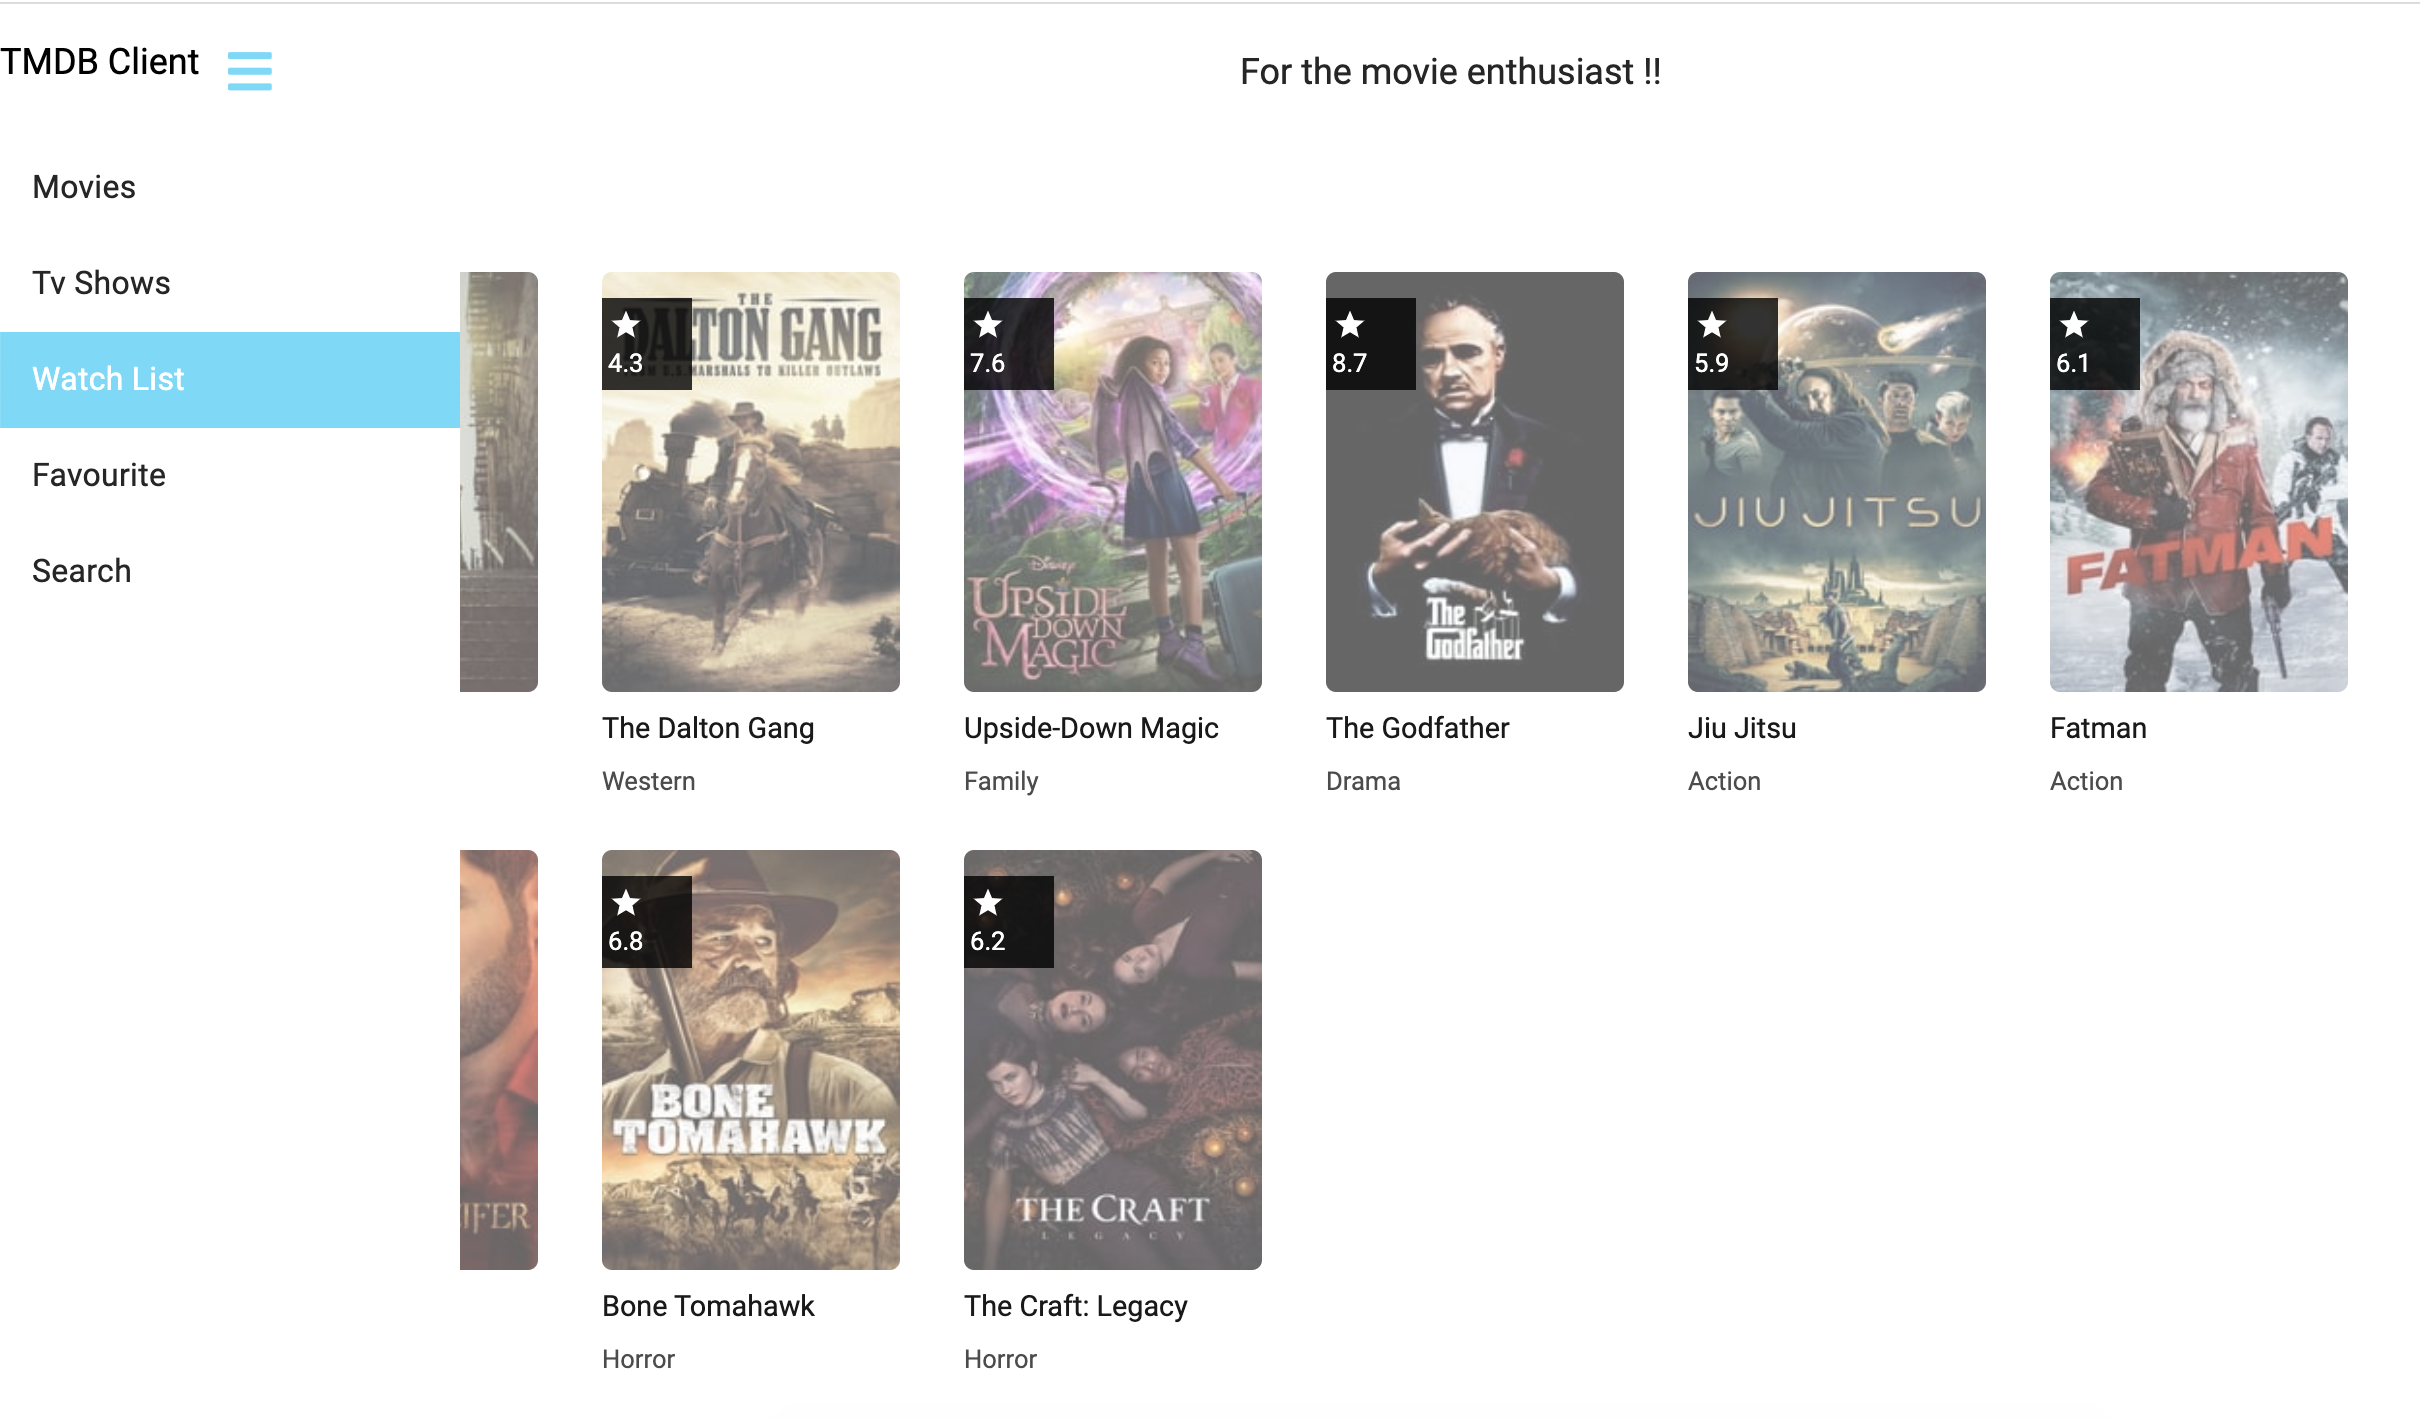
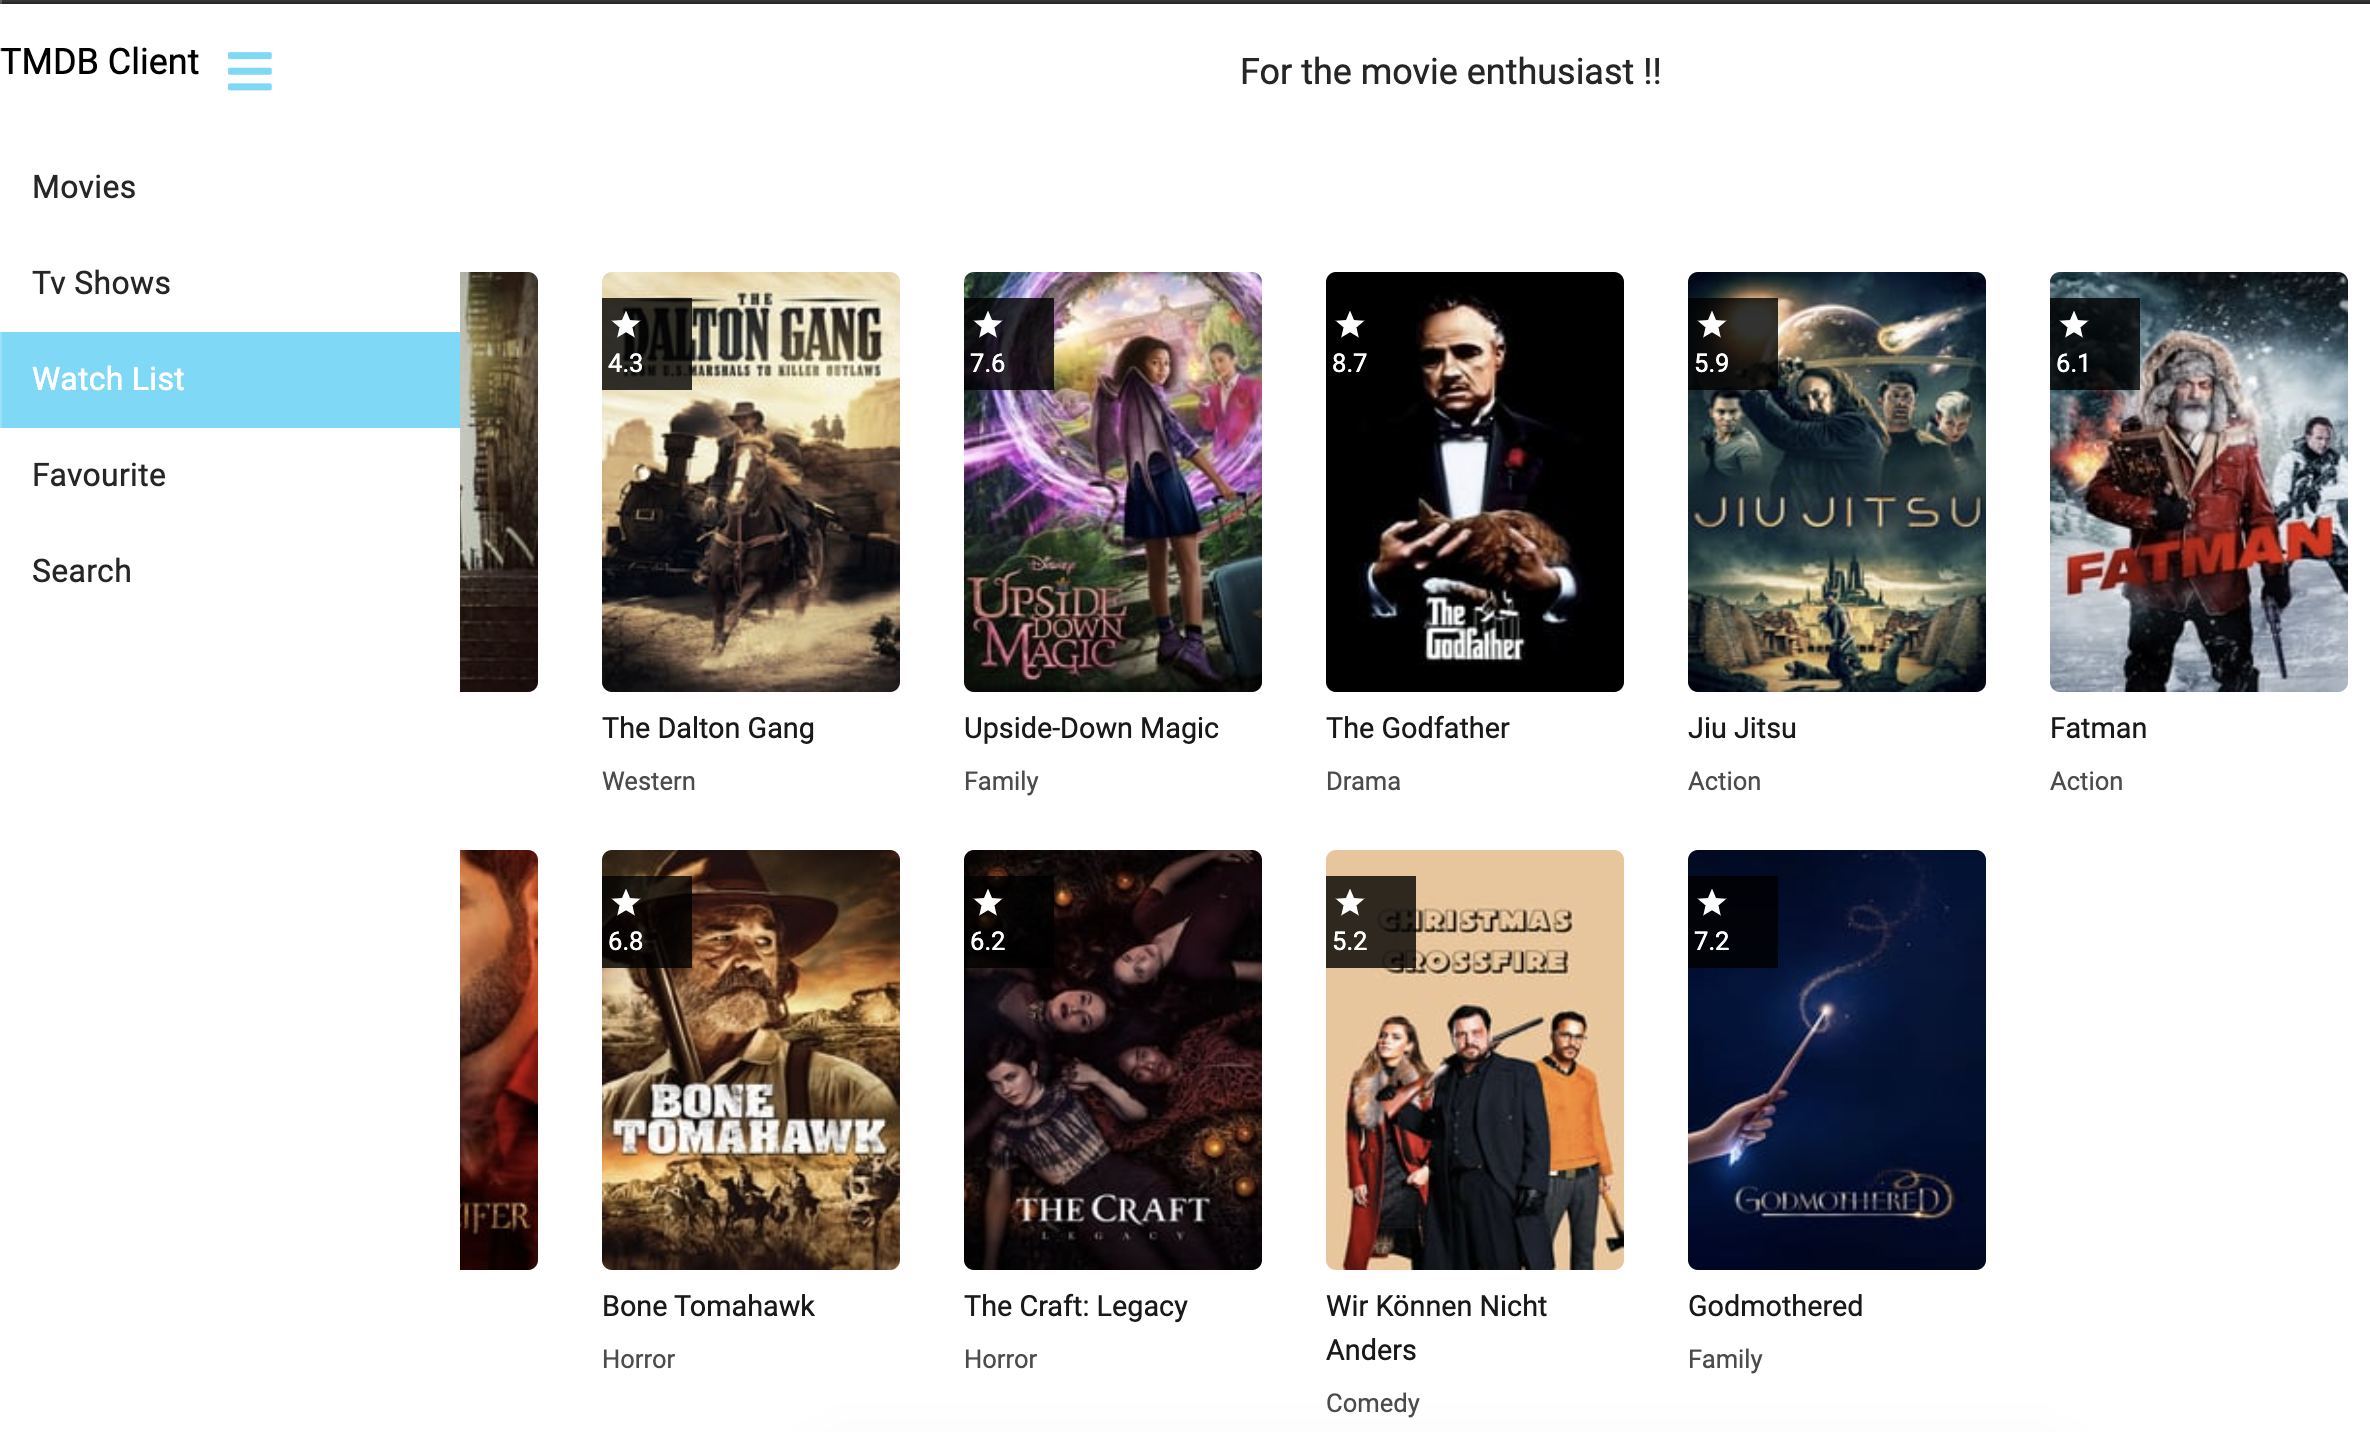
readme.md - add some pictures

diff --git a/src/components/Cast/Casts.css b/src/components/Cast/Casts.css
@@ -17,7 +17,7 @@
     margin-top: 0;
     height: 210px;
     border-radius: 5px;
-    opacity: 0.6;
+    opacity: 1;
     margin-right: 3px;
   }
   .carousel-img:hover {

diff --git a/src/components/HorizontalCarousel/HorizontalCarousel.css b/src/components/HorizontalCarousel/HorizontalCarousel.css
@@ -14,7 +14,7 @@
   margin-top: 0;
   height: 210px;
   border-radius: 5px;
-  opacity: 0.6;
+  opacity: 1;
   margin-right: 3px;
 }
 .carousel-img:hover {

diff --git a/src/components/HorizontalMovieCarousel/HorizontalMoviesCarousel.css b/src/components/HorizontalMovieCarousel/HorizontalMoviesCarousel.css
@@ -14,7 +14,7 @@
   margin-top: 0;
   height: 210px;
   border-radius: 5px;
-  opacity: 0.6;
+  opacity: 1;
   margin-right: 3px;
 }
 .carousel-img:hover {

diff --git a/src/components/RecommendedMovies/RecommendedMovies.css b/src/components/RecommendedMovies/RecommendedMovies.css
@@ -8,7 +8,7 @@
   margin-top: 0;
   height: 210px;
   border-radius: 5px;
-  opacity: 0.6;
+  opacity: 1;
   margin-right: 3px;
 }
 .movie-image:hover {
